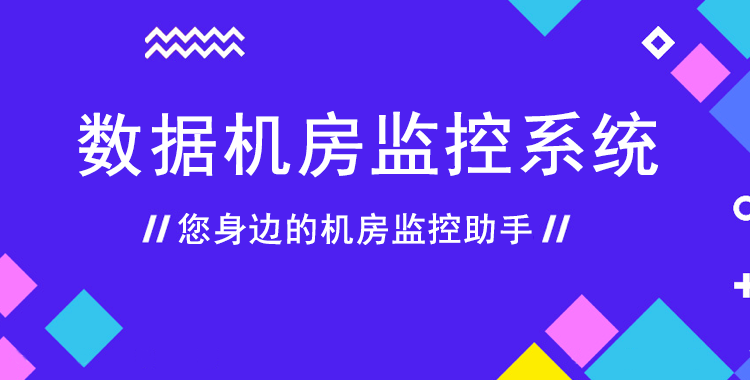
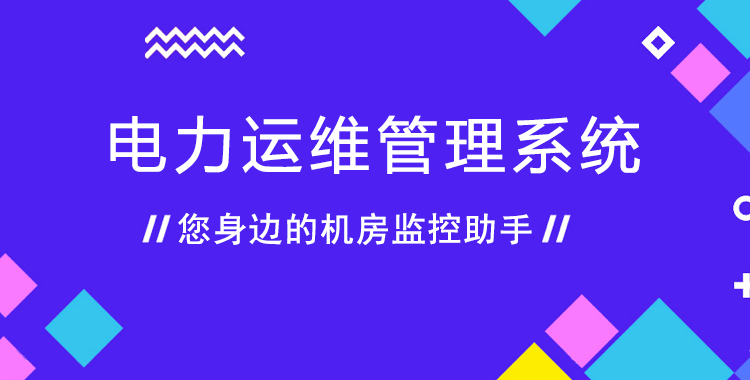
定制电力运维管理系统版本

Changed region(s): [[0.092, 0.2895, 0.8893, 0.4632]]

diff --git a/src/pages/main/about.html b/src/pages/main/about.html
@@ -41,8 +41,8 @@
       <div class="about-logo bui-box-center">
         <img src="images/applogo.png" alt="" />
       </div>
-      <div class="about-name bui-box-center">数据机房监控系统</div>
-      <div class="about-version bui-box-center">V1.2.0 Build200530</div>
+      <div class="about-name bui-box-center">电力运维管理系统</div>
+      <div class="about-version bui-box-center">V1.3.0 Build200911</div>
     </div>
     <div class="about-buttons">
       <div id="about-check-version" class="bui-btn round primary">检查更新</div>

diff --git a/src/index.html b/src/index.html
@@ -2,7 +2,7 @@
 <html lang="zh-CN">
   <head>
     <meta http-equiv="Content-Type" content="text/html;charset=UTF-8" />
-    <title>数据机房监控系统</title>
+    <title>电力运维管理系统</title>
     <meta name="format-detection" content="telephone=no" />
     <meta name="viewport" content="width=device-width, initial-scale=1, maximum-scale=1, minimum-scale=1, user-scalable=no" />
     <link rel="icon" type="image/x-icon" href="favicon.ico" />

diff --git a/src/pages/login/login.html b/src/pages/login/login.html
@@ -1,7 +1,7 @@
 <style type="text/css">
   #pylon-app-login main {
     background-color: #ffffff;
-    background-image: url("images/login_bg.png");
+    background-image: url('images/login_bg.png');
     background-size: cover;
   }
 
@@ -125,7 +125,7 @@
   </main>
   <footer>
     <div class="copyright">
-      版本 V1.2.0 Build200530
+      版本 V1.3.0 Build200911
     </div>
   </footer>
 </div>
